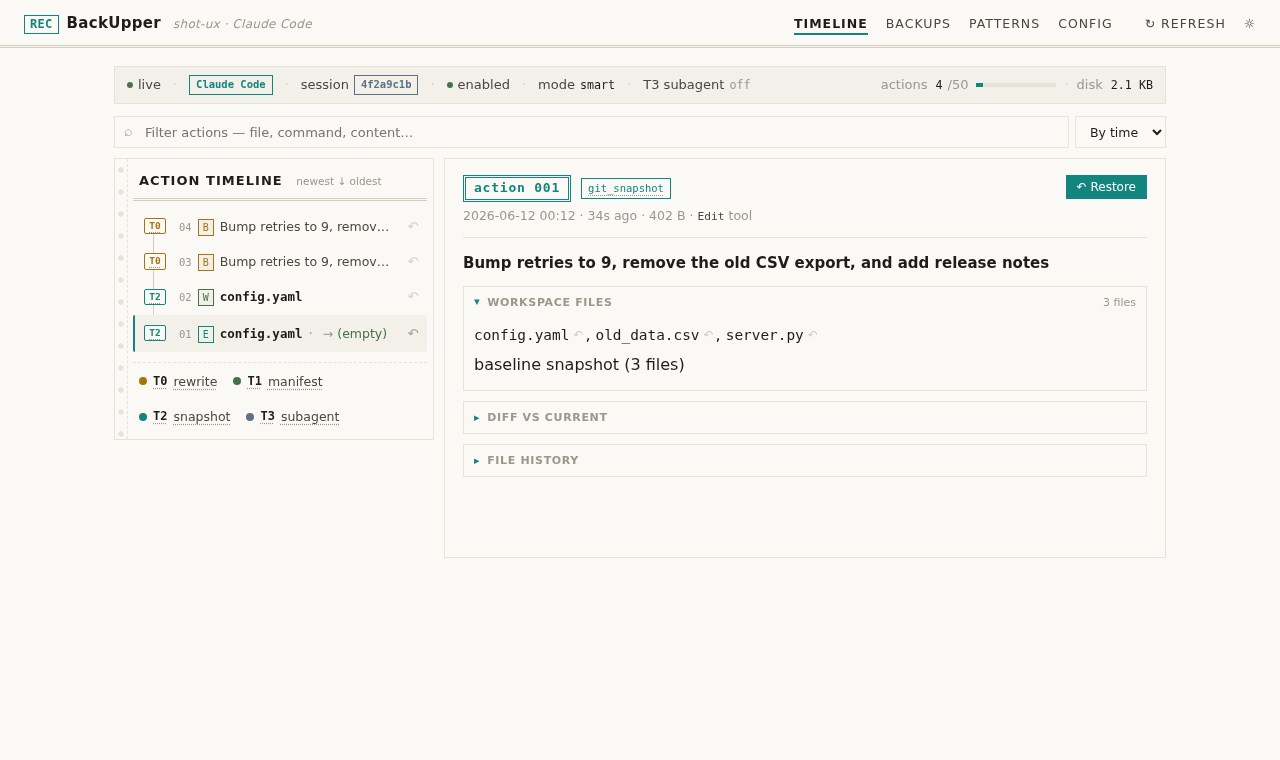
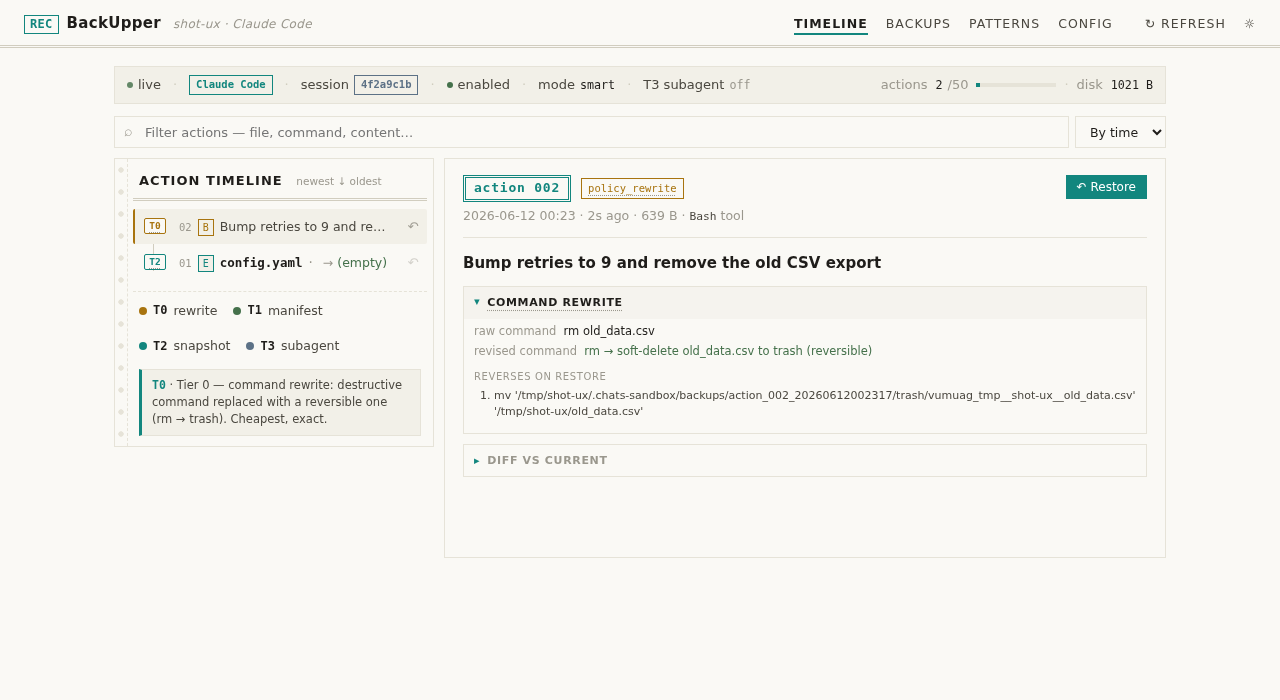
feat(dashboard): clickable tier legend with description box; compact fold content
The T0/T1/T2/T3 legend blocks now toggle a concise description panel
on click (teal-edged box under the legend; click again to dismiss,
click another tier to swap). Accordion bodies shrink to 11-11.5px —
the fold is for detail, not headlines.

diff --git a/src/dashboard/static/index.html b/src/dashboard/static/index.html
@@ -374,6 +374,22 @@
   .detail-acc .acc-body { padding: 4px 10px 12px; }
   .detail-acc summary .hint { font-weight: 400; text-transform: none; letter-spacing: 0; color: var(--muted); margin-left: auto; font-size: 11px; }
 
+  /* Clickable tier legend + description box */
+  .tl-legend .item { cursor: pointer; }
+  .tl-legend .item:hover b { color: var(--accent); }
+  .tl-tier-info { display: none; margin: 4px 6px 6px; padding: 7px 10px; border: 1px solid var(--line); border-left: 3px solid var(--accent); background: var(--bg-soft); font-size: 11.5px; line-height: 1.5; color: var(--text-dim); }
+  .tl-tier-info.show { display: block; }
+  .tl-tier-info b { color: var(--accent); font-family: "JetBrains Mono", monospace; }
+
+  /* Accordion contents stay compact — the fold is for detail, not headlines */
+  .detail-acc .acc-body { font-size: 11.5px; }
+  .detail-acc .acc-body .kv { font-size: 11.5px; font-weight: 400; }
+  .detail-acc .acc-body .detail-diff { font-size: 11px; max-height: 280px; }
+  .detail-acc .acc-body .file-list code { font-size: 11px; font-weight: 400; }
+  .detail-acc .acc-body .stat { font-size: 11px; }
+  .detail-acc .acc-body ol { font-size: 11px !important; }
+  .detail-acc .acc-body .file-history .strip { font-size: 11px; }
+
   /* Key terms: dotted underline + native tooltip — hover for definition */
   .term { text-decoration: underline dotted var(--muted); text-underline-offset: 3px; cursor: help; }
 
@@ -947,10 +963,10 @@ function renderByFile(actions) {
 
 function legendHtml() {
   const item = (cls, tag, word) =>
-    `<span class="item ${cls} term" title="${escapeHtml(TIER_HELP[tag])}"><span class="ld"></span><b>${tag}</b> ${word}</span>`;
+    `<span class="item ${cls}" data-tier="${tag}" title="Click for a description"><span class="ld"></span><b>${tag}</b> ${word}</span>`;
   return `<div class="tl-legend">
     ${item("rew", "T0", "rewrite")}${item("man", "T1", "manifest")}${item("snap", "T2", "snapshot")}${item("sub", "T3", "subagent")}
-  </div>`;
+  </div><div class="tl-tier-info" id="tier-info"></div>`;
 }
 
 function inferFile(a) {
@@ -967,7 +983,26 @@ function inferFile(a) {
   return null;
 }
 
+function wireLegendClicks() {
+  const box = $("tier-info");
+  if (!box) return;
+  for (const el of document.querySelectorAll(".tl-legend .item")) {
+    el.addEventListener("click", () => {
+      const tag = el.dataset.tier;
+      if (box.dataset.cur === tag && box.classList.contains("show")) {
+        box.classList.remove("show");
+        box.dataset.cur = "";
+        return;
+      }
+      box.dataset.cur = tag;
+      box.innerHTML = `<b>${tag}</b> · ${escapeHtml(TIER_HELP[tag] || "")}`;
+      box.classList.add("show");
+    });
+  }
+}
+
 function wireRowEvents() {
+  wireLegendClicks();
   for (const row of document.querySelectorAll(".tl-row")) {
     row.addEventListener("click", (ev) => {
       if (ev.target.closest(".tl-restore")) return;
@@ -1200,8 +1235,8 @@ async function loadDiff(seq) {
       const pr = d.policyRewrite;
       // Strip a "Bash(...)" wrapper for readability.
       const origCmd = (pr.original || "").replace(/^\w+\((.*)\)$/s, "$1") || pr.original;
-      let rw = `<div class="kv" style="margin-bottom:4px"><span style="color:var(--muted)">raw command&nbsp;</span> <span class="strike" style="text-decoration-color:var(--danger);color:var(--text)">${escapeHtml(origCmd)}</span></div>
-        <div class="kv"><span style="color:var(--muted)">revised command&nbsp;</span> <span style="color:var(--success)">${escapeHtml(pr.description || "intercepted")}</span></div>`;
+      let rw = `<div class="kv" style="margin-bottom:3px;font-size:11.5px"><span style="color:var(--muted)">raw command&nbsp;</span> <span class="strike" style="text-decoration-color:var(--danger);color:var(--text)">${escapeHtml(origCmd)}</span></div>
+        <div class="kv" style="font-size:11.5px"><span style="color:var(--muted)">revised command&nbsp;</span> <span style="color:var(--success)">${escapeHtml(pr.description || "intercepted")}</span></div>`;
       if (pr.recovery && pr.recovery.length) {
         rw += `<div class="kv" style="color:var(--muted);text-transform:uppercase;font-size:10px;letter-spacing:0.06em;margin-top:8px;margin-bottom:3px">Reverses on restore</div>
           <ol style="margin:0;padding-left:20px;font-size:11.5px;color:var(--text-dim);line-height:1.5">${pr.recovery.map((c) => `<li>${escapeHtml(c)}</li>`).join("")}</ol>`;
